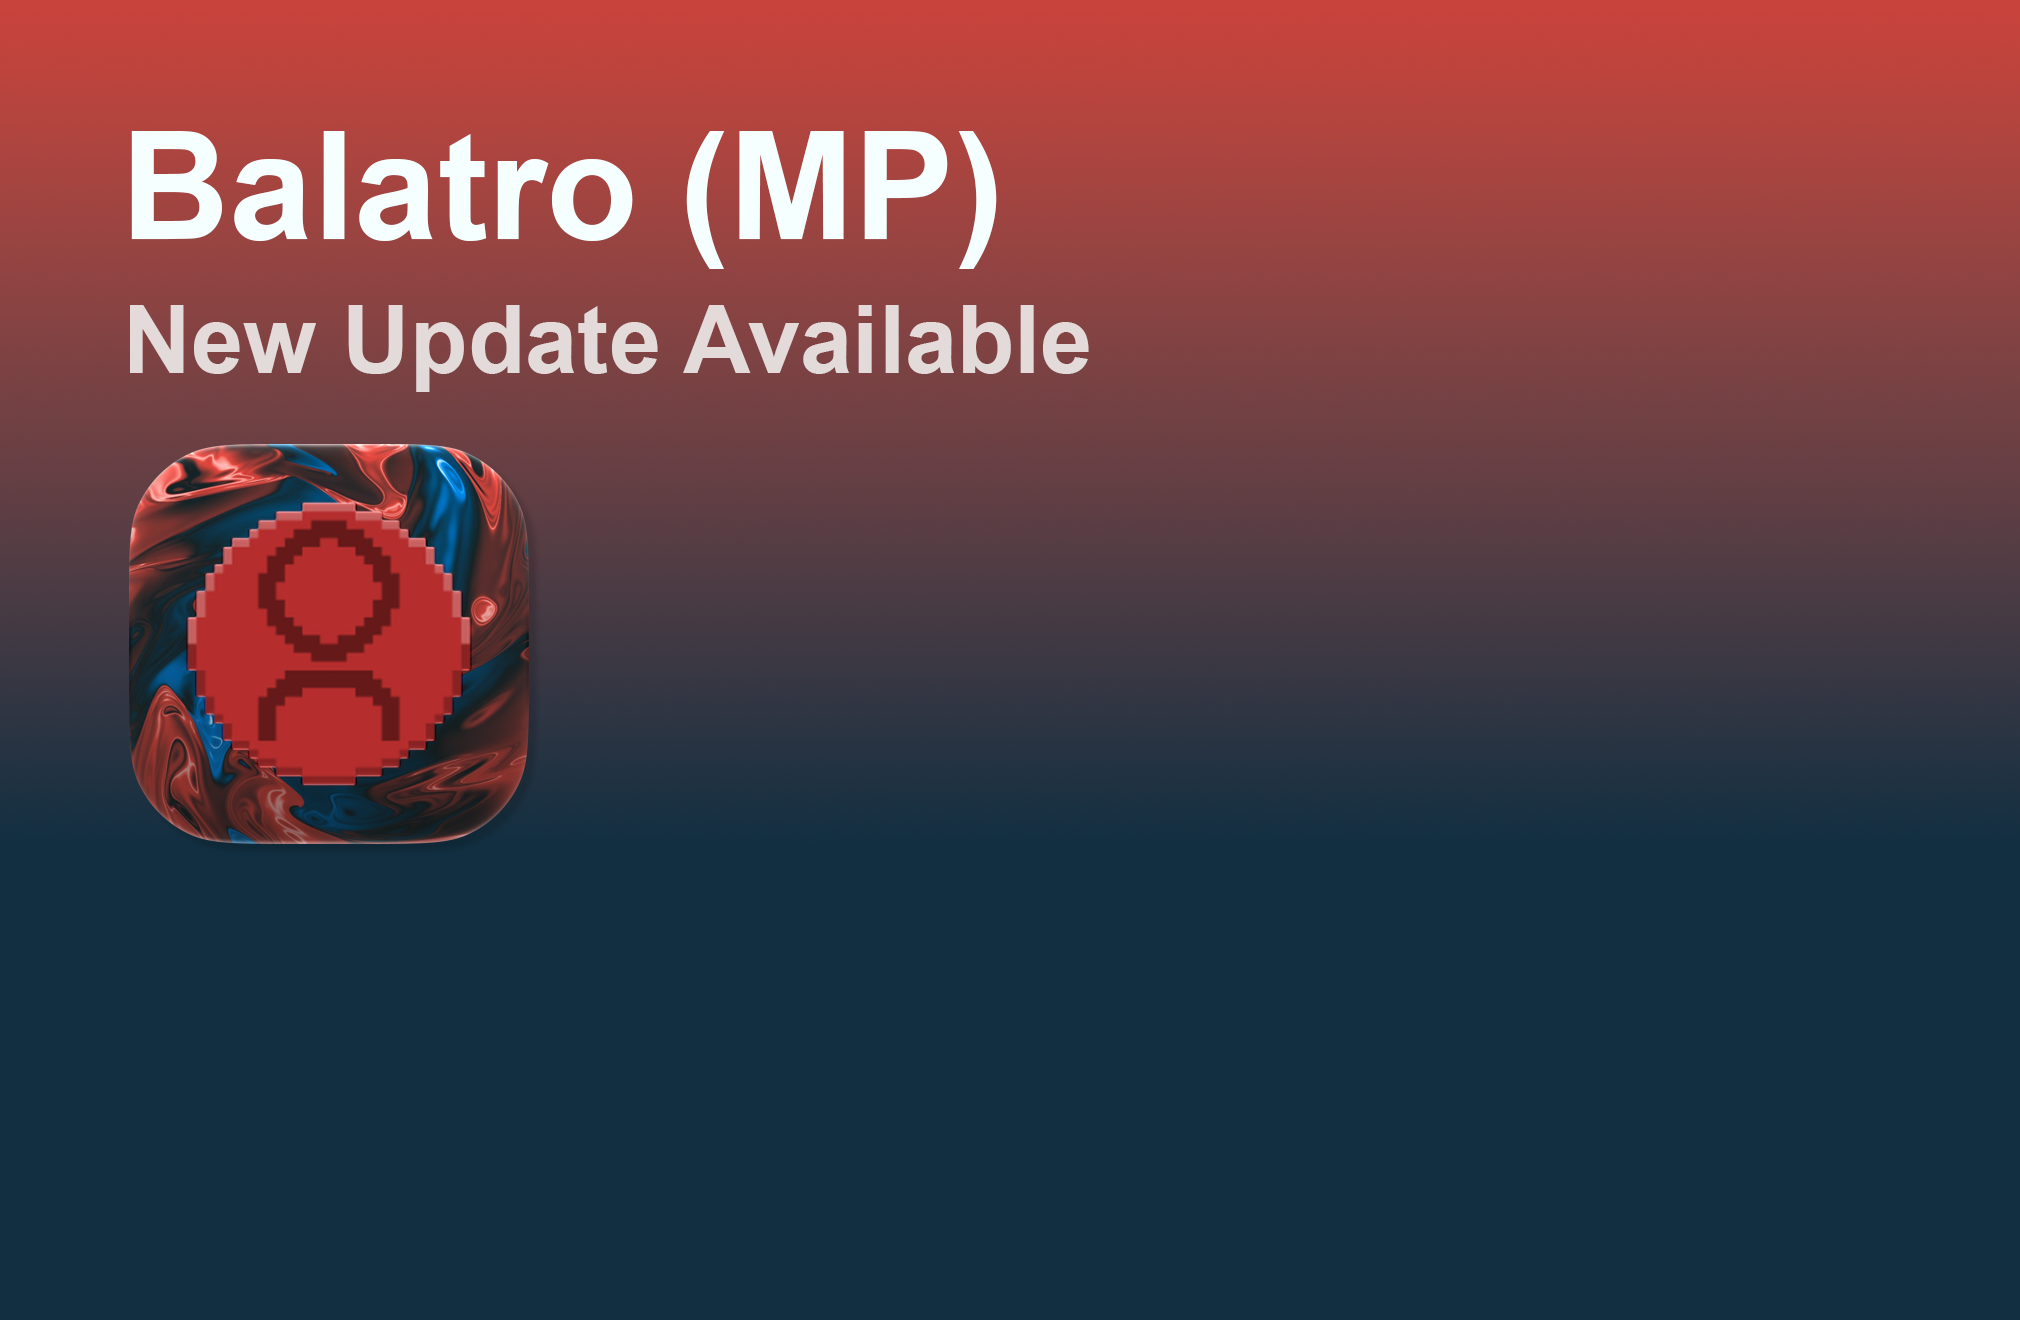
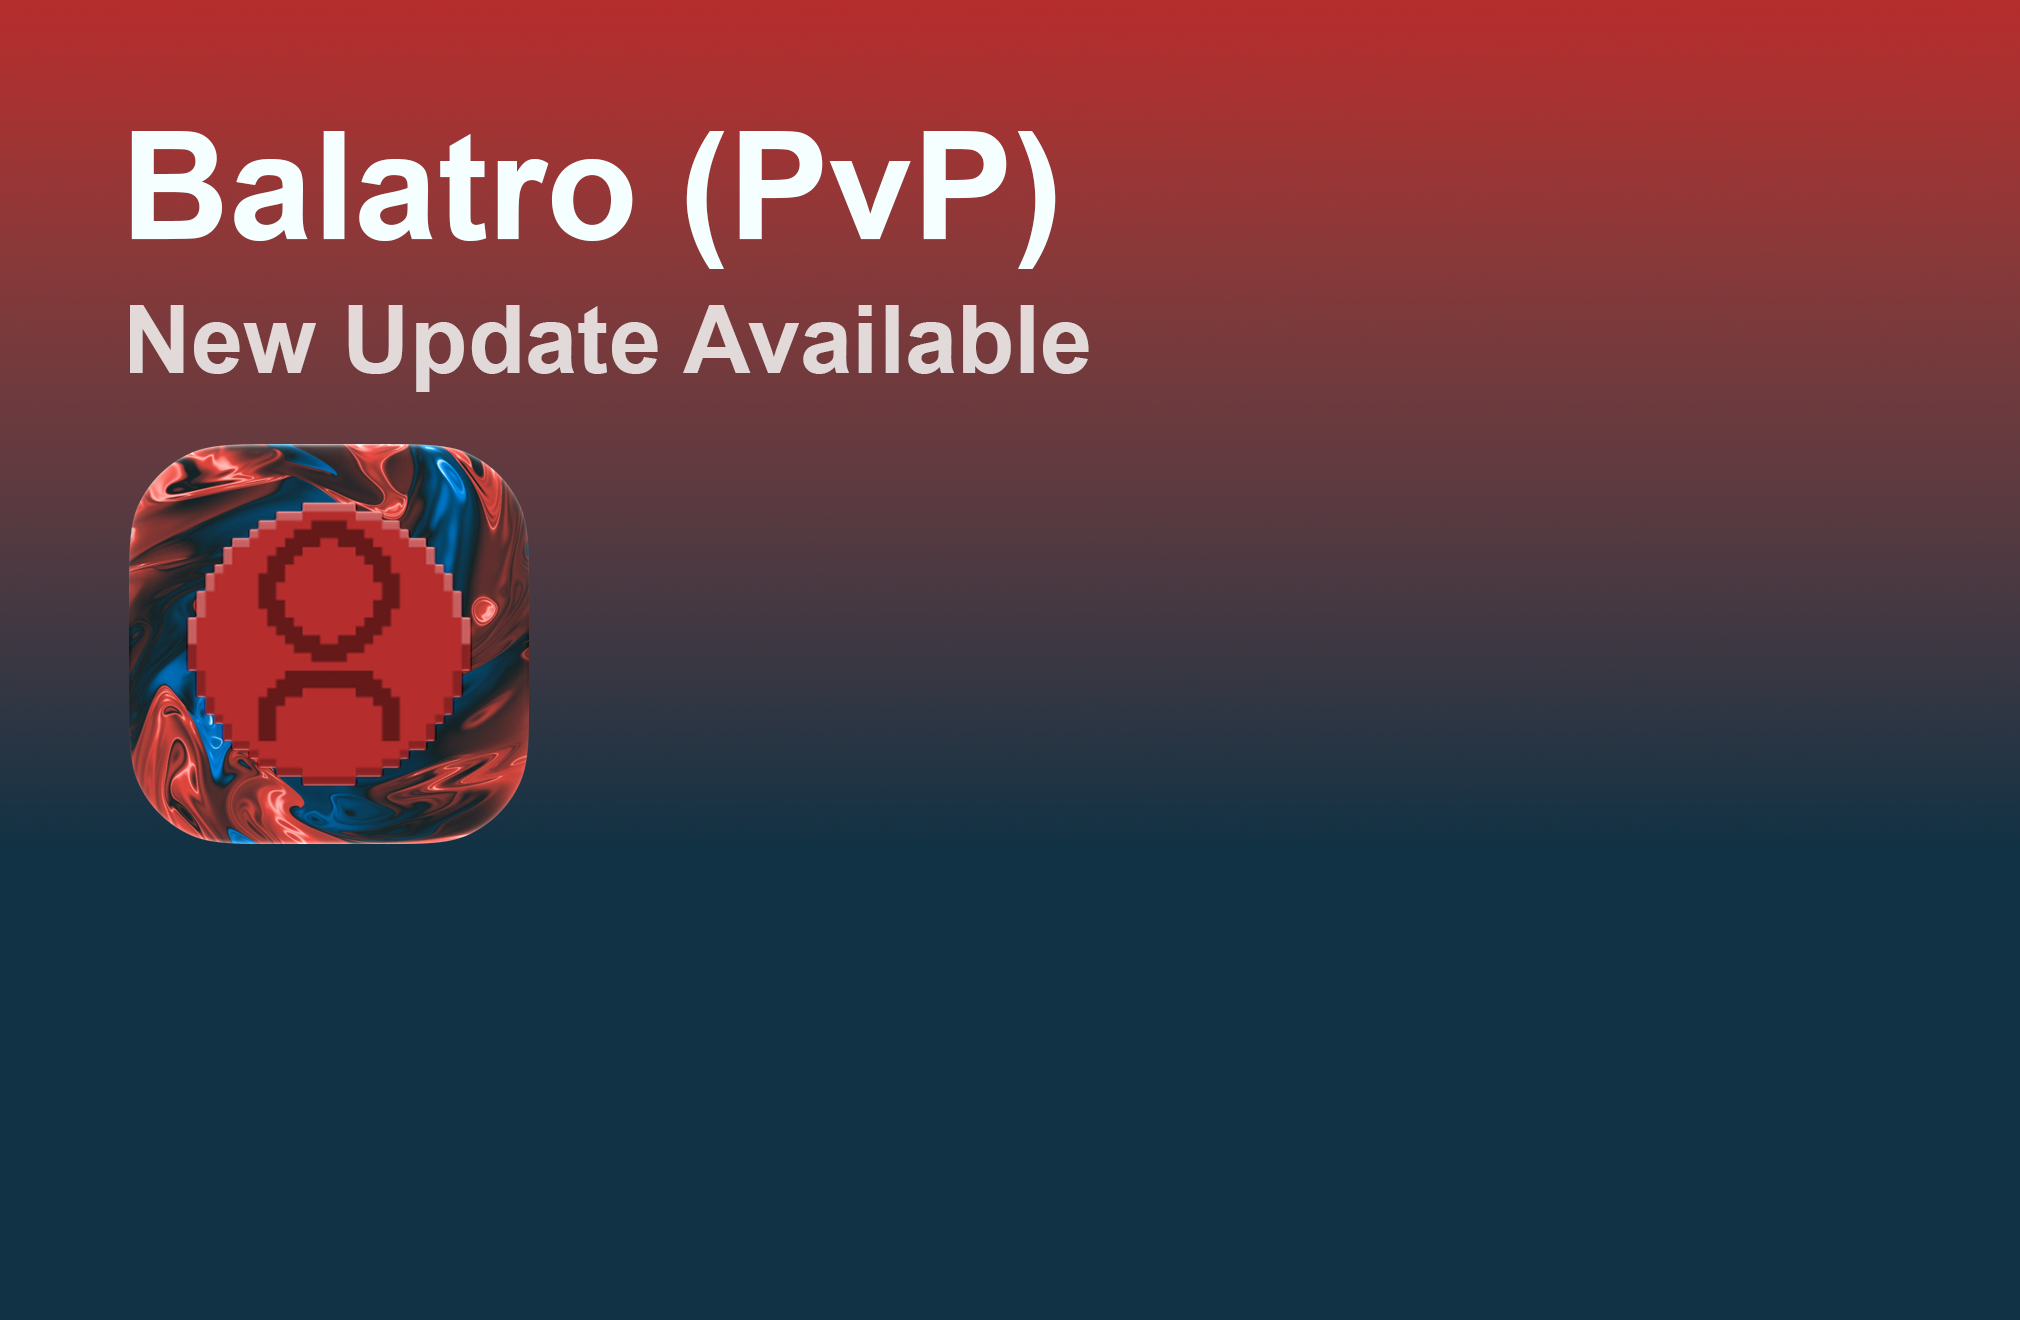
Separate Legacy and PvP Multiplayer source streams

Changed region(s): [[0.0624, 0.497, 0.2807, 0.6523], [0.3743, 0.0932, 0.5302, 0.2174], [0.2183, 0.3417, 0.2495, 0.3727]]

diff --git a/tests/test_balatro_streams.py b/tests/test_balatro_streams.py
@@ -28,7 +28,7 @@ class BalatroStreamsTests(unittest.TestCase):
             "html_url": "https://example.com/release/" + tag,
             "assets": [
                 {
-                    "name": f"b-multiplayer.{version}.ipa",
+                    "name": f"b-{'multiplayer-legacy' if 'multiplayer-legacy' in tag else 'multiplayer'}.{version}.ipa",
                     "browser_download_url": "https://example.com/" + tag + ".ipa",
                     "size": 123,
                 }
@@ -36,99 +36,105 @@ class BalatroStreamsTests(unittest.TestCase):
             **flags,
         }
 
-    def test_existing_download_and_bundle_id_stay_with_legacy(self):
-        existing = next(
-            a
-            for a in self.source["apps"]
-            if a["bundleIdentifier"] == self.legacy["app_id"]
-        )
-        self.assertFalse(self.legacy["updates_enabled"])
+    def test_legacy_and_pvp_select_only_their_own_stable_releases(self):
+        releases = [
+            self.release("multiplayer-0.5.5", "0.5.5"),
+            self.release("multiplayer-legacy-0.5.5", "0.5.5"),
+            self.release("multiplayer-1.0.3", "1.0.3"),
+            self.release("multiplayer-2.0.0", "2.0.0", prerelease=True),
+            self.release("multiplayer-legacy-0.5.6", "0.5.6", draft=True),
+        ]
+        for app, tag, asset in [
+            (
+                self.legacy,
+                "balatro-multiplayer-legacy-v0.5.5",
+                "b-multiplayer-legacy.0.5.5.ipa",
+            ),
+            (self.pvp, "balatro-multiplayer-pvp-v1.0.3", "b-multiplayer.1.0.3.ipa"),
+        ]:
+            selected = mirror.select_latest_release(releases, app)
+            self.assertEqual(selected["mirror_tag"], tag)
+            self.assertEqual(selected["output_name"], asset)
+            self.assertTrue(app.get("updates_enabled", True))
+            self.assertFalse(app.get("include_prereleases", False))
         self.assertEqual(self.legacy["app_id"], "mod.balatro.multiplayer")
-        self.assertIn("(Legacy)", existing["name"])
-        self.assertEqual(existing["version"], "0.5.5")
-        self.assertIn("/balatro-multiplayer-v0.5.5/", existing["downloadURL"])
-        self.assertNotEqual(self.legacy["app_id"], self.pvp["app_id"])
+        self.assertEqual(self.pvp["app_id"], "mod.balatro.multiplayer.pvp")
         self.assertNotEqual(
             self.legacy["mirror_tag_prefix"], self.pvp["mirror_tag_prefix"]
         )
-        with self.assertRaisesRegex(ValueError, "disconnected"):
-            mirror.select_release(
-                self.release("multiplayer-0.5.5", "0.5.5"), self.legacy
-            )
+        for app in (self.legacy, self.pvp):
+            with self.assertRaises(ValueError):
+                mirror.select_release(releases[0], app)
 
-    def test_pvp_accepts_experimental_1x_and_rejects_legacy_and_drafts(self):
-        old = self.release("multiplayer-0.5.5", "0.5.5")
-        new = self.release("multiplayer-1.0.1", prerelease=True)
-        draft = self.release("multiplayer-2.0.0", "2.0.0", draft=True)
-        selected = mirror.select_latest_release([old, new, draft], self.pvp)
-        self.assertEqual(selected["mirror_tag"], "balatro-multiplayer-pvp-v1.0.1")
-        self.assertEqual(selected["output_name"], "b-multiplayer.1.0.1.ipa")
-        self.assertEqual(
-            mirror.select_latest_release([old], self.pvp), {"available": "false"}
-        )
-        with self.assertRaises(ValueError):
-            mirror.select_release(old, self.pvp)
-        for app in self.config["apps"].values():
-            if app is not self.pvp and app.get("updates_enabled", True):
-                self.assertFalse(app.get("include_prereleases", False))
-
-    def test_archive_is_frozen_and_new_source_waits_for_real_release(self):
+    def test_both_entries_repopulate_independently_from_an_empty_source(self):
         config = copy.deepcopy(self.config)
         config["apps"] = {
             key: config["apps"][key]
             for key in ("balatro-multiplayer-legacy", "balatro-multiplayer")
         }
+        ids = {self.legacy["app_id"], self.pvp["app_id"]}
         fixture = copy.deepcopy(self.source)
-        legacy_before = next(
-            a for a in fixture["apps"] if a["bundleIdentifier"] == self.legacy["app_id"]
-        )
-        # Exercise migration from an older generated source, even after the
-        # committed source has been renamed. Only metadata may change.
-        legacy_before.update(
-            name="Balatro (Multiplayer)",
-            subtitle="Balatro with Multiplayer",
-            localizedDescription="Original legacy description",
-        )
-        expected_legacy = dict(
-            legacy_before,
-            name=self.legacy["app_name"],
-            subtitle=self.legacy["subtitle"],
-            localizedDescription=self.legacy["localized_description"],
-        )
-        for release_available in (False, True):
+        fixture["apps"] = [
+            a for a in fixture["apps"] if a["bundleIdentifier"] not in ids
+        ]
+        fixture["news"] = [n for n in fixture["news"] if n["appID"] not in ids]
+        legacy = self.release("balatro-multiplayer-legacy-v0.5.5", "0.5.5")
+        pvp = self.release("balatro-multiplayer-pvp-v1.0.3", "1.0.3")
+        stale = self.release("balatro-multiplayer-v9.0.0", "9.0.0")
+        for releases in ([], [legacy], [pvp], [legacy, pvp]):
             with (
-                self.subTest(release_available=release_available),
+                self.subTest(tags=[r["tag_name"] for r in releases]),
                 tempfile.TemporaryDirectory() as directory,
             ):
                 source_path = Path(directory) / "app.json"
                 source_path.write_text(json.dumps(fixture))
                 config["source"]["json_file"] = str(source_path)
-                mirrored = self.release(
-                    "balatro-multiplayer-pvp-v1.0.1", prerelease=True
-                )
-                releases = [self.release("balatro-multiplayer-v9.0.0", "9.0.0")]
-                if release_available:
-                    releases.append(mirrored)
-                update.update_source(config, releases)
+                update.update_source(config, releases + [stale])
                 result = update.load_json(source_path)
                 apps = {a["bundleIdentifier"]: a for a in result["apps"]}
-                self.assertEqual(apps[self.legacy["app_id"]], expected_legacy)
-                self.assertEqual(self.pvp["app_id"] in apps, release_available)
-                if release_available:
-                    self.assertEqual(apps[self.pvp["app_id"]]["version"], "1.0.1")
-                    self.assertEqual(
-                        apps[self.pvp["app_id"]]["downloadURL"],
-                        mirrored["assets"][0]["browser_download_url"],
-                    )
-                    self.assertTrue(
-                        any(n["appID"] == self.pvp["app_id"] for n in result["news"])
-                    )
+                for app, release in ((self.legacy, legacy), (self.pvp, pvp)):
+                    self.assertEqual(app["app_id"] in apps, release in releases)
+                    news = [n for n in result["news"] if n["appID"] == app["app_id"]]
+                    self.assertEqual(len(news), int(release in releases))
+                    if release in releases:
+                        self.assertEqual(
+                            apps[app["app_id"]]["downloadURL"],
+                            release["assets"][0]["browser_download_url"],
+                        )
+                        self.assertEqual(news[0]["url"], release["html_url"])
                 self.assertEqual(
-                    cleanup.cleanup_plan(
-                        config, releases[:1] * 5 + releases[1:], result
-                    ),
-                    [],
+                    [a for a in result["apps"] if a["bundleIdentifier"] not in ids],
+                    fixture["apps"],
                 )
+                self.assertEqual(
+                    [n for n in result["news"] if n["appID"] not in ids],
+                    fixture["news"],
+                )
+
+    def test_cleanup_retains_each_multiplayer_stream_separately(self):
+        config = copy.deepcopy(self.config)
+        config["apps"] = {"legacy": self.legacy, "pvp": self.pvp}
+        releases = [
+            self.release(app["mirror_tag_prefix"] + "1.0." + str(i), "1.0." + str(i))
+            for app in (self.legacy, self.pvp)
+            for i in range(1, 6)
+        ]
+        for release in releases:
+            release["published_at"] = (
+                "2026-10-0" + release["tag_name"][-1] + "T00:00:00Z"
+            )
+        fixture = copy.deepcopy(self.source)
+        ids = {self.legacy["app_id"], self.pvp["app_id"]}
+        fixture["apps"] = [
+            a for a in fixture["apps"] if a["bundleIdentifier"] not in ids
+        ]
+        fixture["news"] = [n for n in fixture["news"] if n["appID"] not in ids]
+        expected = {
+            app["mirror_tag_prefix"] + "1.0." + str(i)
+            for app in (self.legacy, self.pvp)
+            for i in (1, 2)
+        }
+        self.assertEqual(set(cleanup.cleanup_plan(config, releases, fixture)), expected)
 
     def test_new_entry_cannot_silently_disappear_after_first_release(self):
         with tempfile.TemporaryDirectory() as directory:
@@ -143,7 +149,7 @@ class BalatroStreamsTests(unittest.TestCase):
                 update.update_source(config, [])
             self.assertEqual(source_path.read_bytes(), before)
 
-    def test_legacy_is_excluded_from_workflow_matrix(self):
+    def test_both_multiplayer_streams_are_in_workflow_matrix(self):
         expression = "[.apps | to_entries[] | select(.value.updates_enabled != false) | .value + {key: .key}]"
         workflow = (ROOT / ".github/workflows/create_release.yml").read_text()
         self.assertIn(expression, workflow)
@@ -151,7 +157,7 @@ class BalatroStreamsTests(unittest.TestCase):
             ["jq", "-c", expression, str(ROOT / "config.json")], text=True
         )
         keys = {app["key"] for app in json.loads(result)}
-        self.assertNotIn("balatro-multiplayer-legacy", keys)
+        self.assertIn("balatro-multiplayer-legacy", keys)
         self.assertIn("balatro-multiplayer", keys)
 
     def test_new_flags_require_booleans(self):

diff --git a/README.md b/README.md
@@ -8,7 +8,7 @@ apps and community-maintained tweaks from their upstream GitHub releases. This i
 |      | App | Upstream |
 | :---: | --- | --- |
 | <img src="images/apollo/icon.png" alt="Apollo icon" width="64" height="64"> | **Apollo** | [Apollo-Reborn/Apollo-Reborn](https://github.com/Apollo-Reborn/Apollo-Reborn) |
-| <img src="images/balato_mp/icon.png" alt="Balatro Multiplayer icon" width="64" height="64"> | **Balatro (Multiplayer)** | [tanakrit-d/balatro-ios-mod-builder](https://github.com/tanakrit-d/balatro-ios-mod-builder) |
+| <img src="images/balato_mp/icon.png" alt="Balatro Multiplayer icon" width="64" height="64"> | **Balatro (PVP)** | [tanakrit-d/balatro-ios-mod-builder](https://github.com/tanakrit-d/balatro-ios-mod-builder) |
 | <img src="images/balato_mp_legacy/icon.png" alt="Balatro Multiplayer icon" width="64" height="64"> | **Balatro (Multiplayer) (Legacy)** | [tanakrit-d/balatro-ios-mod-builder](https://github.com/tanakrit-d/balatro-ios-mod-builder) |
 | <img src="images/balatro_pk/icon.png" alt="Balatro Pokermon icon" width="64" height="64"> | **Balatro (Pokermon)** | [tanakrit-d/balatro-ios-mod-builder](https://github.com/tanakrit-d/balatro-ios-mod-builder) |
 | <img src="images/plezy/icon.png" alt="Plezy icon" width="64" height="64"> | **Plezy** | [edde746/plezy](https://github.com/edde746/plezy) |
@@ -31,7 +31,6 @@ https://raw.githubusercontent.com/tanakrit-d/tanakrits-repo/refs/heads/main/app.
 This repository is an unofficial mirror and is not affiliated with the apps,
 services, or upstream projects listed above.
 
-The legacy Multiplayer entry is frozen at its existing downloads and excluded from
-mirroring and release cleanup. The new Multiplayer entry tracks PvP 1.x (including
-experimental releases) separately and appears in the source after its first real
-IPA is mirrored. It uses a separate bundle identifier so both apps can coexist.
+Legacy Multiplayer and Multiplayer PvP are mirrored as separate apps, each with
+its own stable upstream releases, bundle identifier, versions and news. Both can
+be installed together.
